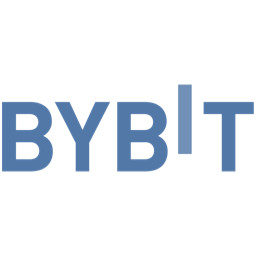
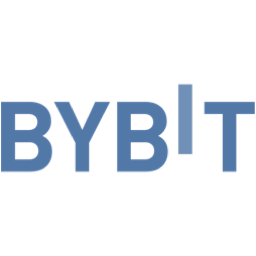
Use compact Netflix Disney and YouTube symbols and trim Bybit margins

diff --git a/README.md b/README.md
@@ -9,26 +9,24 @@
 
 同一 PNG 分别放在浅色与深色背景中展示。
 
-![深浅主题全套预览](Preview/all-icons-blue-a-v4.png)
+![深浅主题全套预览](Preview/all-icons-blue-a-v5.png)
 
 ## 本次更新 · 2026-11-03
 
 - 全套服务 logo 与地区字母底牌统一为 A 方案柔和蓝 `#5278A8`。
 - **AlipayHK**：去掉英文名称，仅保留官方“支”字图形并放大，无底板。
 - **Dreamina**：去掉名称，仅保留原图形标识并放大。
-- **Bybit**：新增独立 `Bybit.png`，使用完整官方 BYBIT 字标，移除宣传语。策略组映射已从 `Blinkload_B.png` 改为 `Bybit.png`；旧文件继续保留，兼容其他引用。
+- **Bybit**：新增独立 `Bybit.png`，使用完整官方 BYBIT 字标，移除宣传语，缩减外围留白；保留单行完整字标，不裁切、不拉伸。策略组映射已从 `Blinkload_B.png` 改为 `Bybit.png`；旧文件继续保留，兼容其他引用。
 - **Spotify、ChatGPT**：等比例放大约 38%；**Speedtest** 放大约 25%。
-- **Netflix、Disney+、YouTube**：保留完整字标，缩减外围留白，放大至不裁切的画布极限。
+- **Netflix、Disney+、YouTube**：改为 N、D 与播放图形，移除完整名称并放大。为兼容已有配置，保留 `Netflix_Letter.png`、`Disney+.png`、`YouTube_Letter.png` 文件名。
 - **Wirex**：移除名称，仅保留 W 图形并放大。
 - **Aliyun**：整体等比例缩小约 12%，保持居中。
 - 预览图直接由当前 50 个实际 PNG 生成；全部直链与策略组映射同步更新。
 
-![三个更新图标及小尺寸效果](Preview/updated-logos.png)
-
 ## 文件说明
 
 - `IconSet/`：50 个 256×256 PNG，带透明通道。
-- `Preview/`：全套深浅背景预览，以及本次修改图标的小尺寸预览。
+- `Preview/`：由当前实际 PNG 生成的全套深浅背景预览。
 - `icon-links.txt`：全部 50 个 PNG 直链。
 - `group-icon-links.json`：Surge 策略组与图标的对应关系，包含原配置中的注释项。
 - `Original/`：原始素材；`Original/Official/` 保存补充的官方素材与 AlipayHK 派生矢量。
